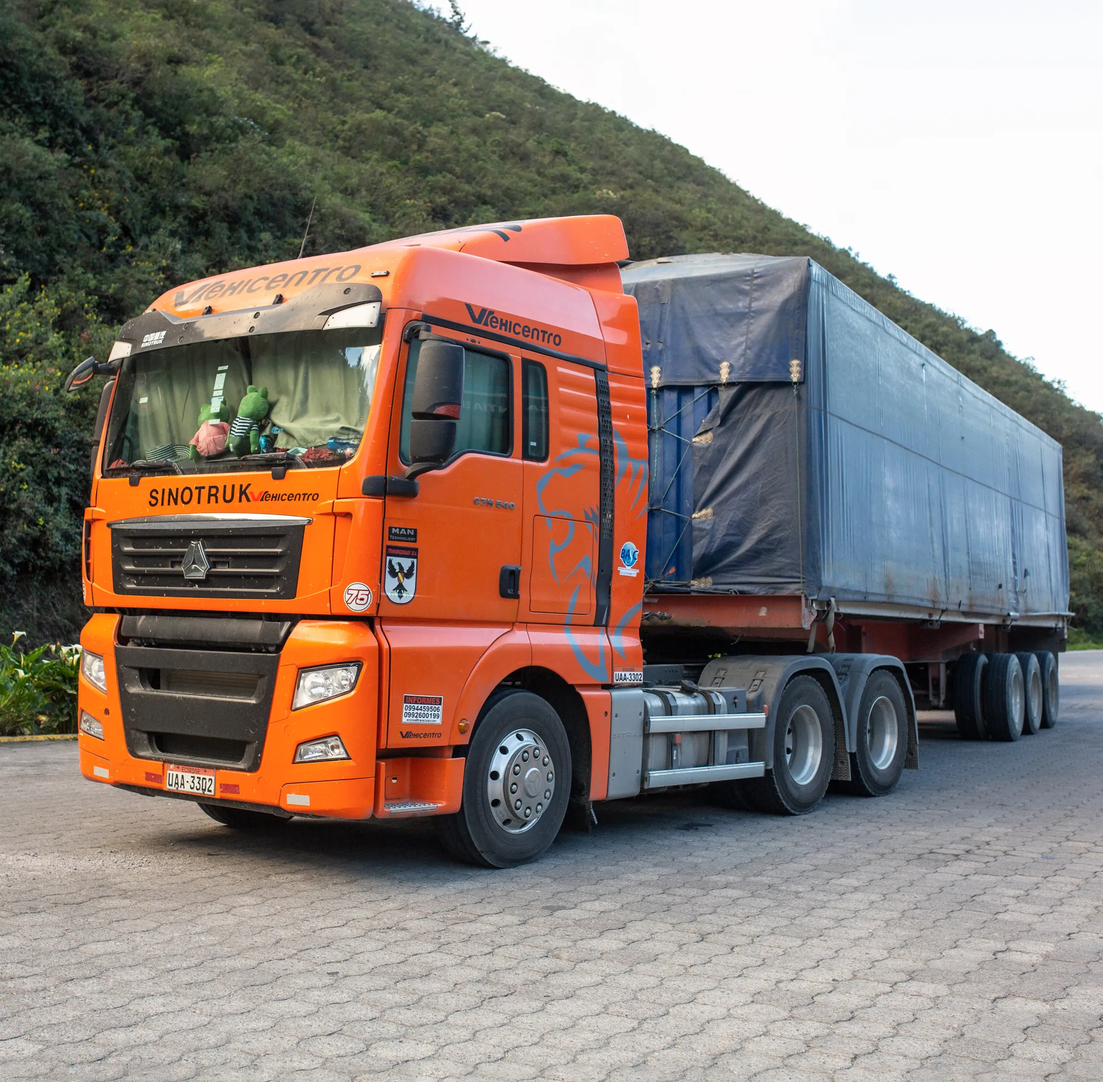
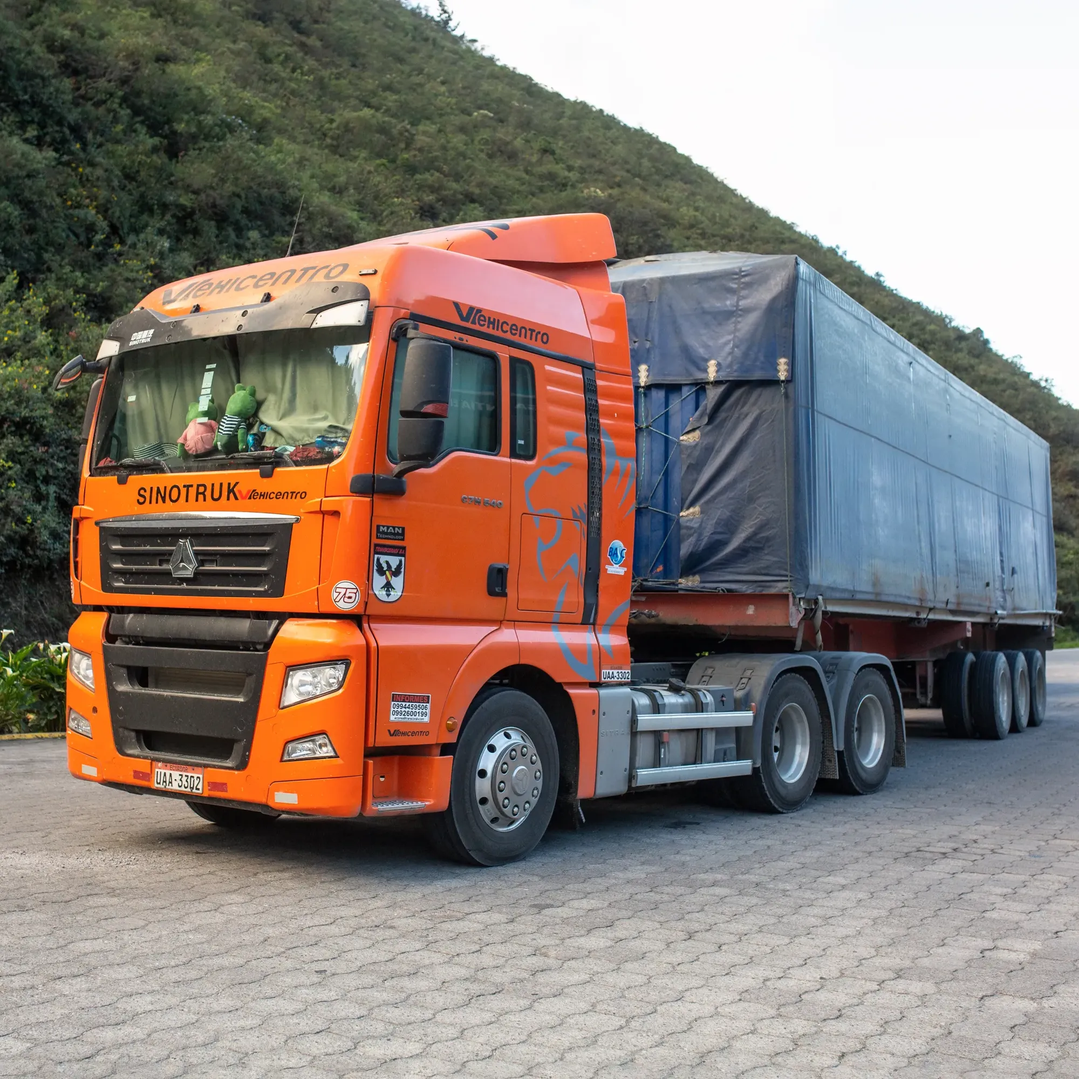
camion en uso 2

diff --git a/src/pages/Camion_en_uso.js b/src/pages/Camion_en_uso.js
@@ -52,17 +52,17 @@ function PrimeraSeccion() {
 
         <div className="boxesIniHeader main fondonegro">
             <div className="boxLeftHeader">
-                <img src={imagen[4]} />
+                <img className="complete"  src={imagen[4]} />
             </div>
             <div className="boxRightHeader inside" >
                 <div className="boxLeftHeader complete" >
-                    <img src={imagen[1]} />
+                    <img className="complete"  src={imagen[1]} />
                 </div>
                 <div className="boxRightHeader  half contenedorTextoSobrepuesto" >
-                    <img src={imagen[2]} />
+                    <img className="complete"  src={imagen[2]} />
                 </div>
                 <div className="boxRightHeader  half contenedorTextoSobrepuesto">
-                    <img src={imagen[3]} />
+                    <img className="complete"  src={imagen[3]} />
                 </div>
             </div>
 
@@ -78,7 +78,7 @@ function SegundaSeccion() {
                 <FormContact url={bdc} camion={nombreCamion} serie={nombreSerie} camionSerie={camionSerie} />
             </div>
             <div className="boxRightHeader inside imagenContacto">
-                <img src={imagen[0]} />
+                <img className="complete contact" src={imagen[0]} />
             </div>
         </div>
     )

diff --git a/src/styles.css b/src/styles.css
@@ -1239,3 +1239,13 @@ li.mouseA:hover {
     -o-background-size:cover;
     background-size:cover;
 }
+
+.boxesIniHeader img.complete {
+    width: 100%;
+    height: 100%;
+}
+
+.boxesIniHeader img.complete.contact {
+    object-fit: cover;
+    overflow: hidden;
+}
